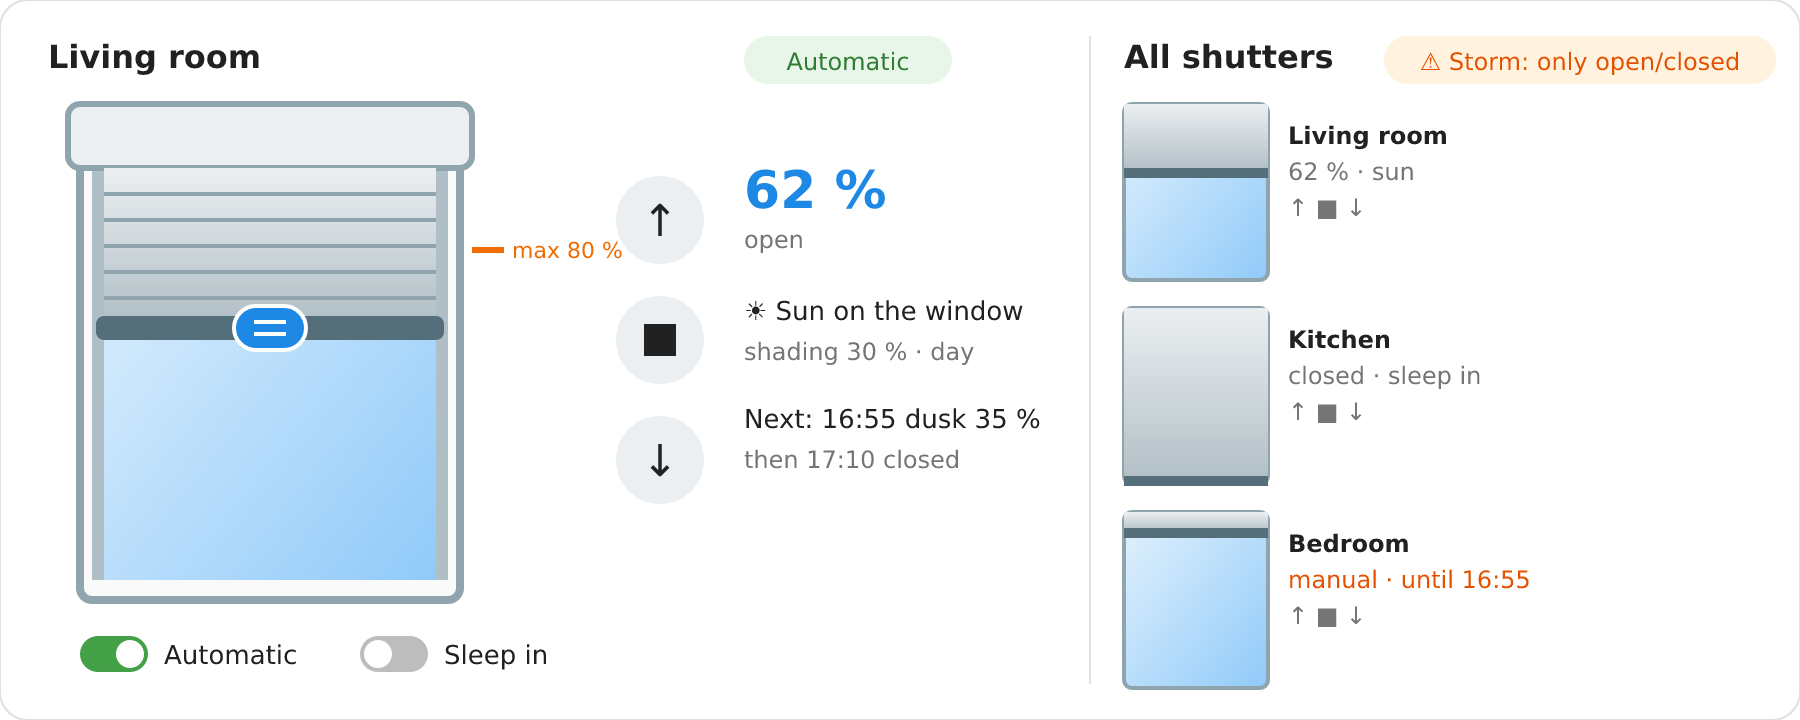
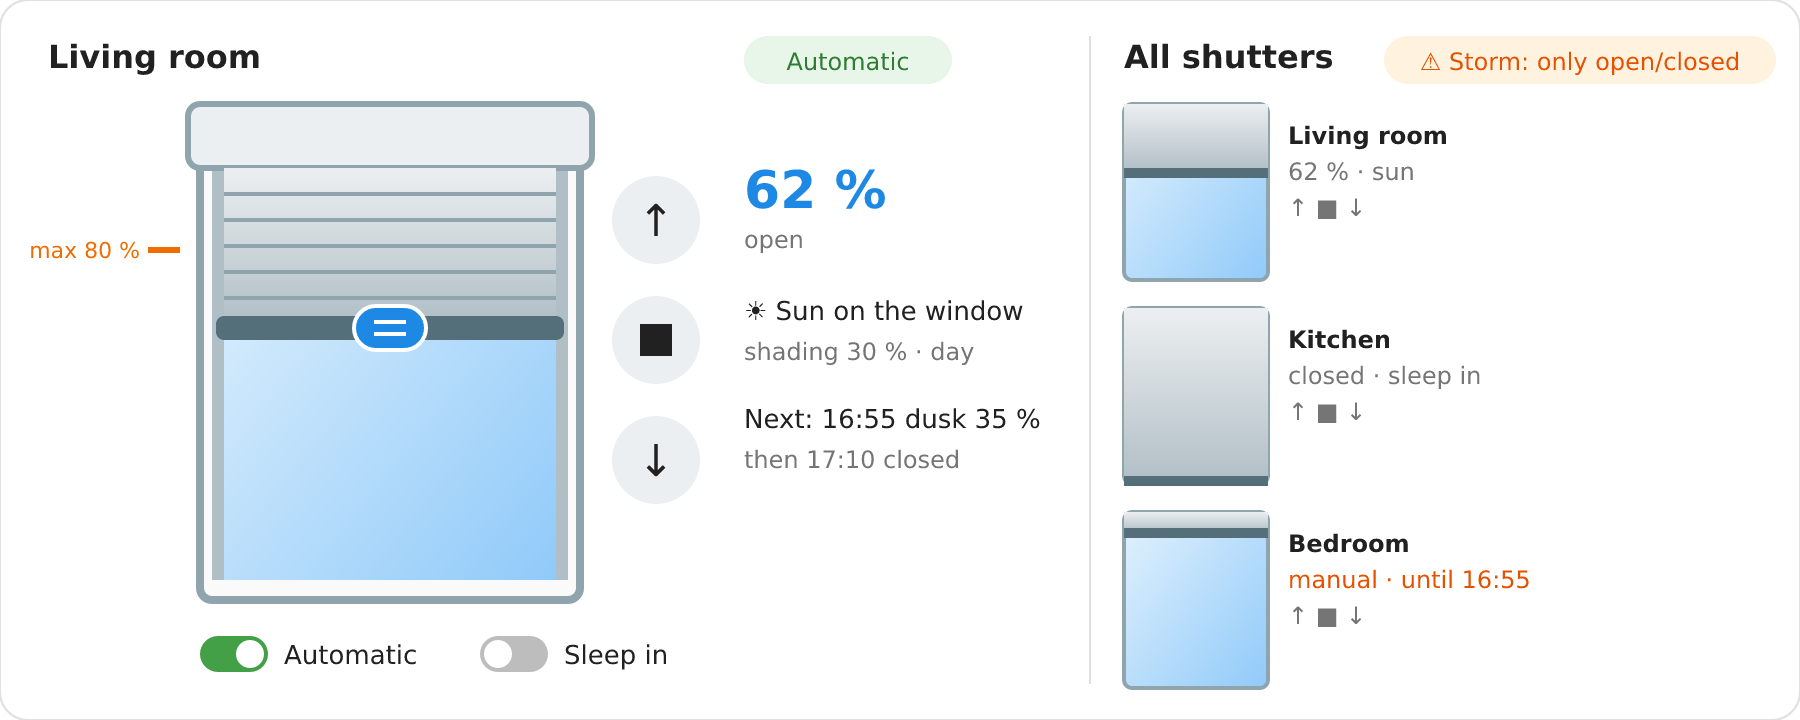
docs: card design, maximum mark on the left of the drawing (#9)

Changed region(s): [[0.0, 0.1222, 0.3733, 0.8556], [0.0311, 0.8861, 0.3733, 0.9472]]

diff --git a/docs/design/2026-11-20-card.md b/docs/design/2026-11-20-card.md
@@ -26,7 +26,8 @@ The visual editor offers the devices of the integration; the base controller is 
 
 - **Drawing:** window frame, box on top, guide rails, slats down to the real position, the bottom bar with a
   handle, the glass below. The real position is the cover entity of the integration (calibrated, #10).
-- **Maximum position:** a mark beside the window with "max 80 %" when below 100 %.
+- **Maximum position:** a mark on the left of the window with "max 80 %" when below 100 %, so the
+  buttons can sit close to the drawing on the right.
 - **Moving:** while the shutter moves (cover state opening/closing) the slats glide to the new position and a
   small arrow shows the direction; with reduced motion, no animation.
 - **Drag:** pointer down on the drawing, drag up or down: a shadow bottom bar shows the target with its
